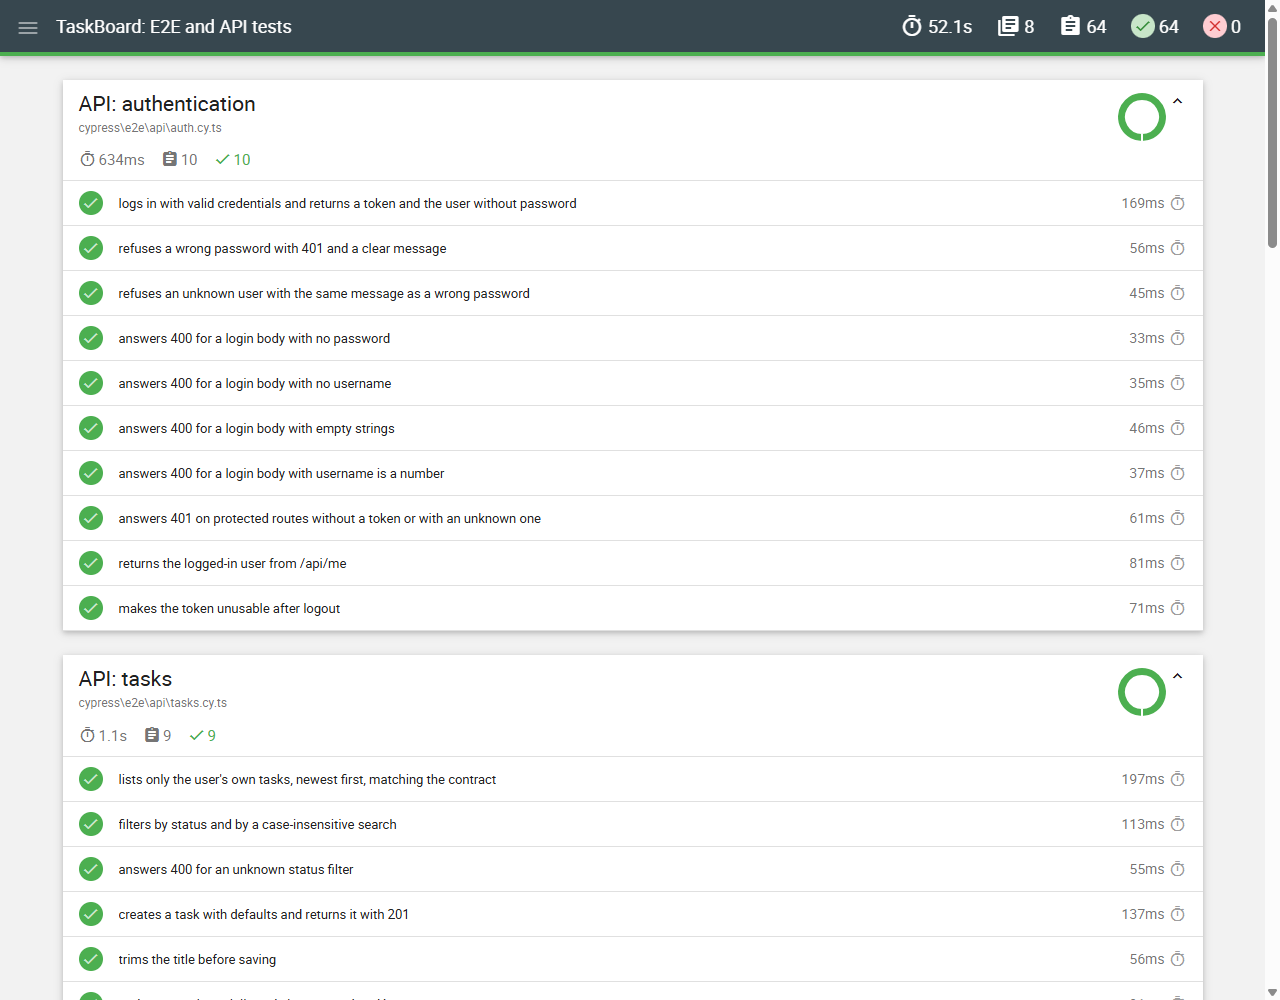
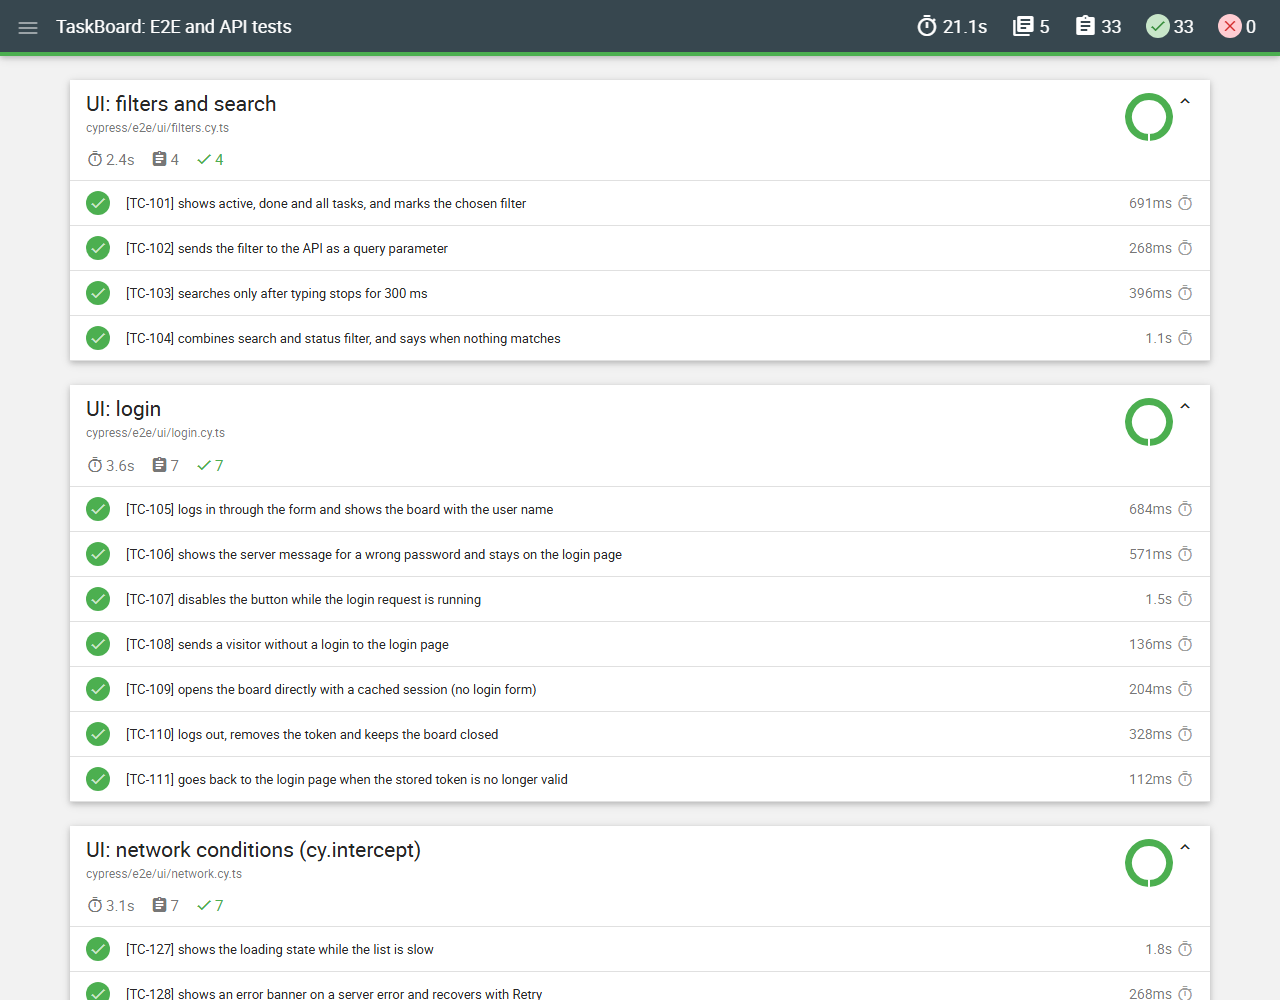
Refresh the report screenshots: test names with case IDs (#7)
The README screenshots were taken before the tests got their case IDs; these come from
a run of 30 Oct 2026 (CI artifact of the main run, or a local run where CI keeps no
HTML report) and show the [TC-NNN] / tcNNN_ names.

diff --git a/README.md b/README.md
@@ -155,7 +155,7 @@ npm run dev              # app with hot reload on :5173 (API still on :3000 via 
 
 Each run writes one HTML report: `cypress/reports/e2e/index.html` or `cypress/reports/component/index.html`.
 
-All API and UI tests passed (64 tests, 8 specs):
+All UI tests passed in Chrome, each named with its case ID (CI run of 30 Oct 2026, 33 tests, 5 specs):
 
 ![Report: all passed](docs/images/report-all-passed.png)
 
